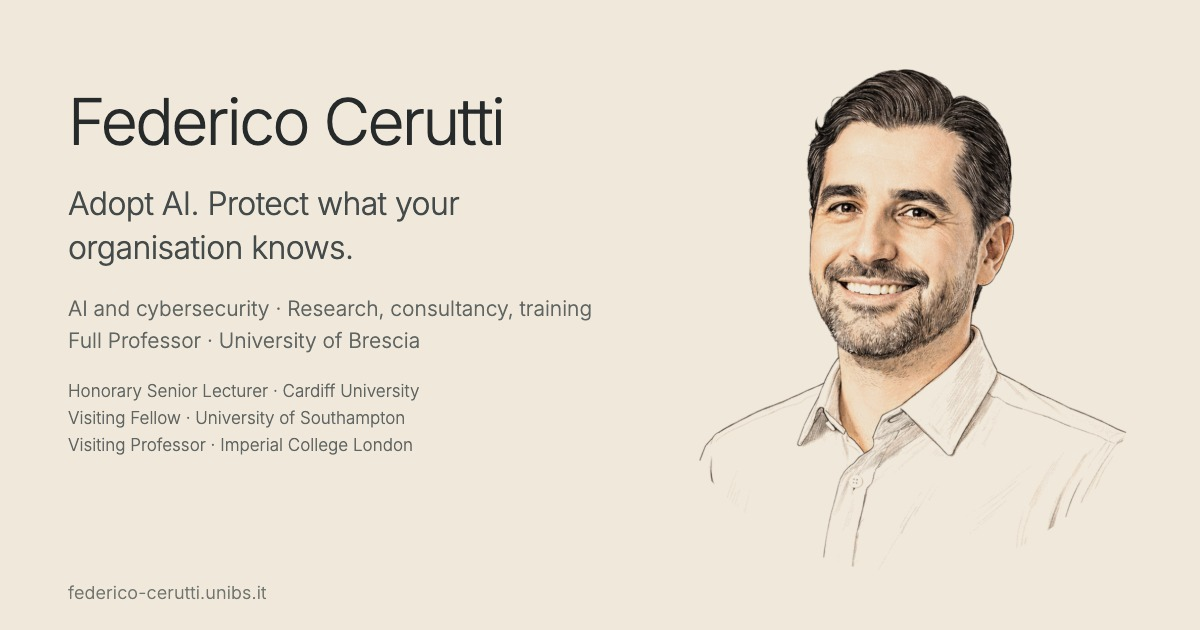
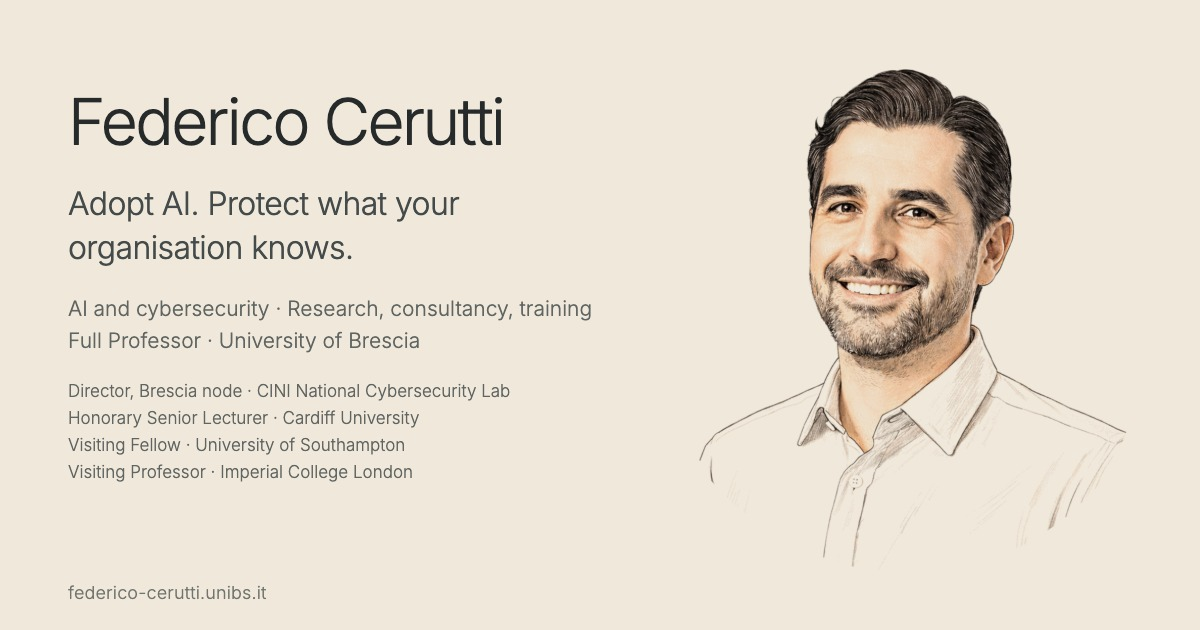
Include CINI Brescia leadership in sharing preview

Changed region(s): [[0.0617, 0.6032, 0.4317, 0.754]]

diff --git a/docs/SEO.md b/docs/SEO.md
@@ -60,3 +60,5 @@ Validation: no type diagnostics, 13 unit tests, 292 generated HTML pages, 5,249 
 Revision, 4 November 2026: owner requested a quieter design and specifically **Inter Light**. The current card is `/images/federico-cerutti-ai-cybersecurity-dark.jpg`, charcoal (#202326), actual embedded Inter 300, name, AI/cybersecurity and factual research/consultancy/training context. The portrait drawing's pixels are preserved; a deterministic silhouette mask and lower fade replace the white backdrop. Original image retained. New dark portrait is used by both localized profiles and Person structured data; removed the extra night-mode dimming. Both website themes were visually checked in Chrome. Generator now uses installed Sharp and Playwright with local Chrome for actual font rendering. This supersedes the earlier slogan card.
 
 Further owner revision, 4 November 2026: discarded the silhouette/fade treatment. Current sharing image is `federico-cerutti-ai-cybersecurity-beige.jpg`; intact original drawing receives a gentle warm paper tint (#efe8db), with Inter Light throughout. Restored “Adopt AI. Protect what your organisation knows.” and added the existing site's exact UK appointments: Honorary Senior Lecturer (Cardiff), Visiting Fellow (Southampton), Visiting Professor (Imperial). Both website portraits use `federico-cerutti-beige.png`. This is deterministic image processing, not an AI-regenerated face; image generation was unavailable in this session. Earlier image versions remain in source/history.
+
+Owner also requested CINI leadership on the card: included “Director, Brescia node · CINI National Cybersecurity Lab” and the same scope in bilingual descriptions. GitHub pushes recovered; beige revision and prior dark revision are now saved on `codex/matomo-tracking`.
